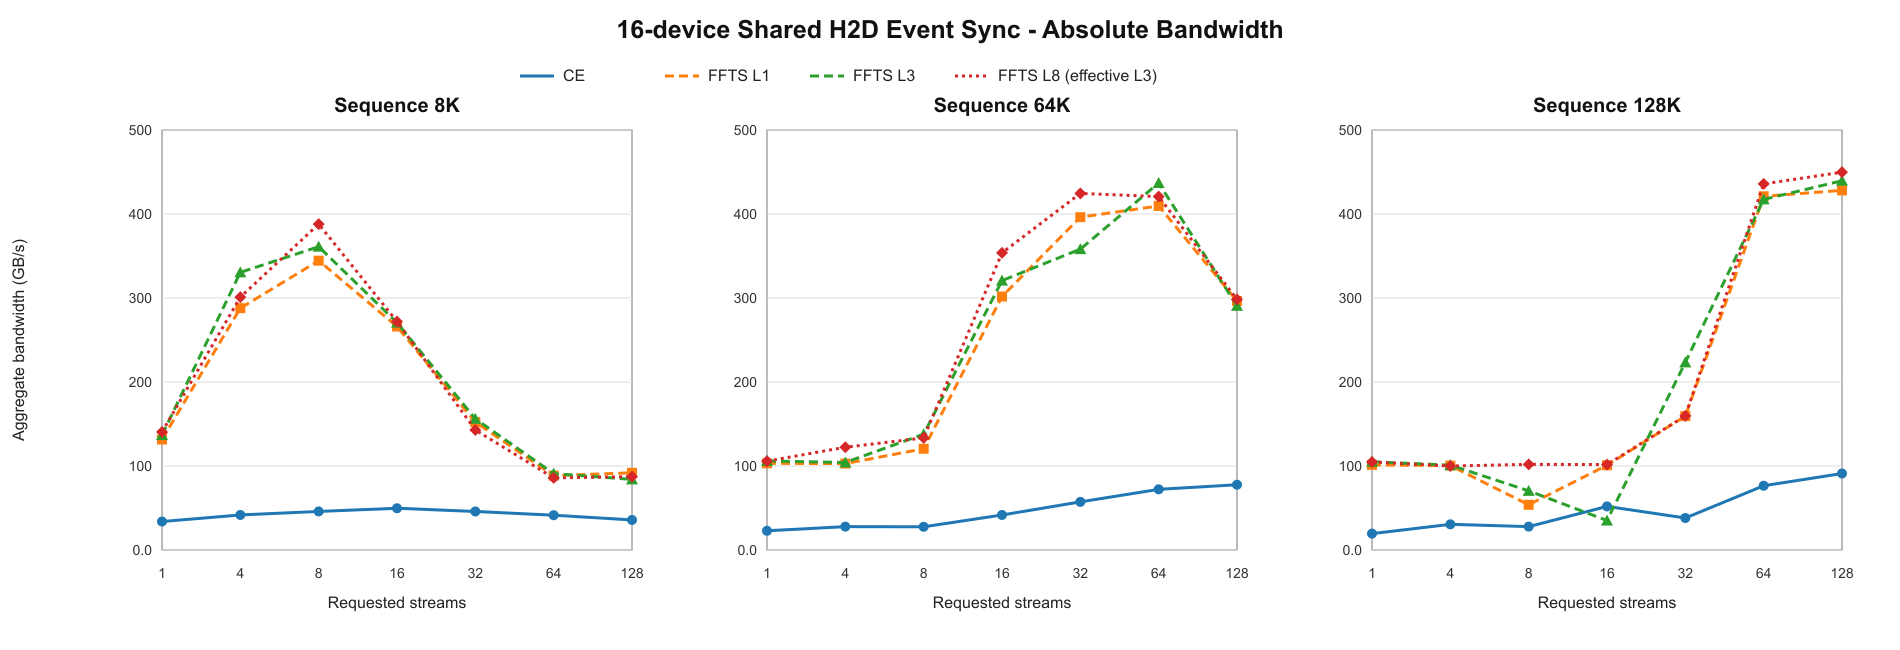
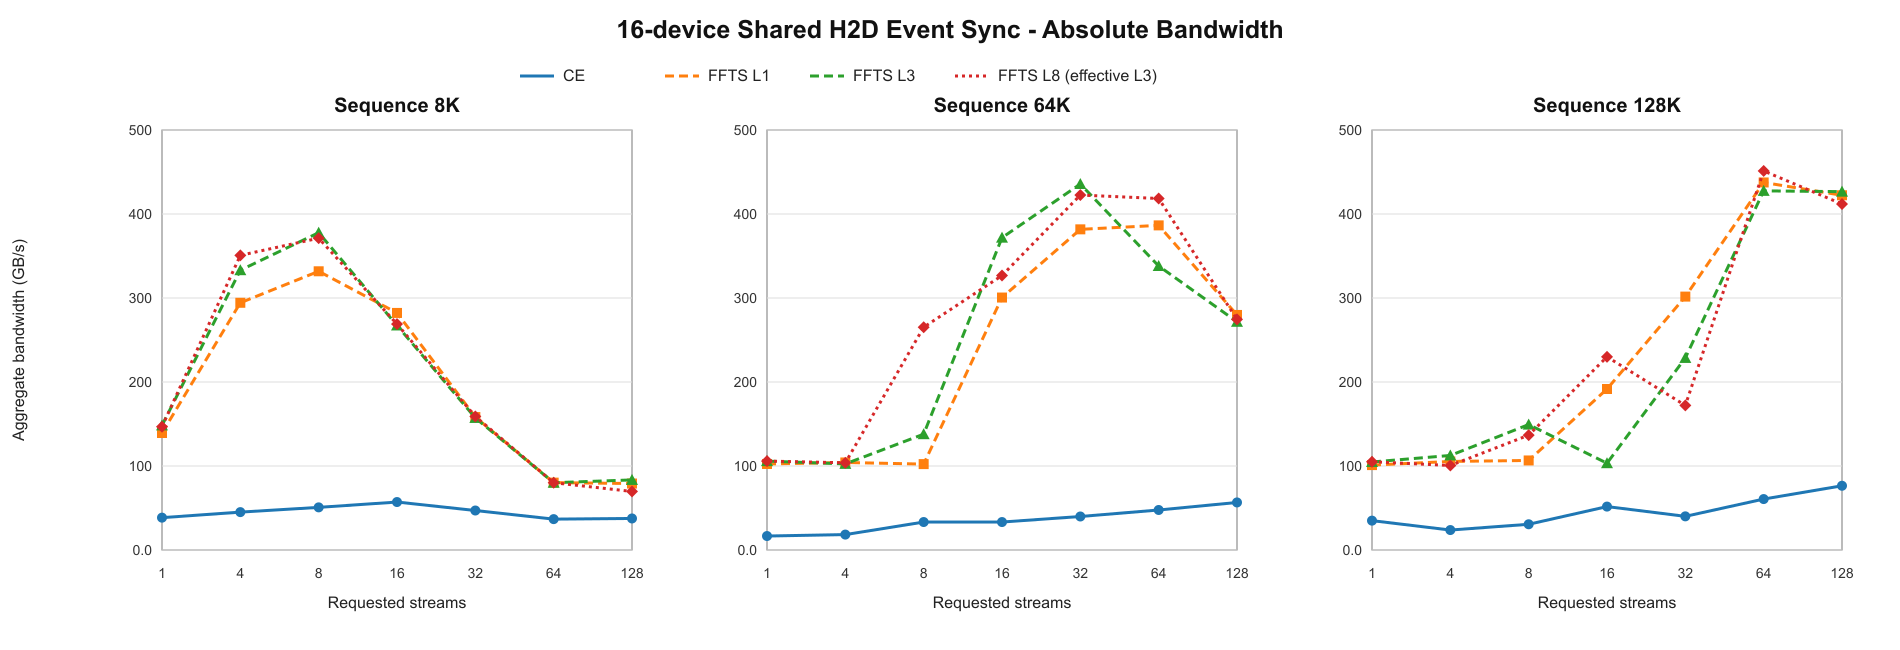
Refresh GLM shared H2D benchmark results

diff --git a/docs/source/developer-guide/ascend_h2d_glm_shared_stream_lane_sweep_report.md b/docs/source/developer-guide/ascend_h2d_glm_shared_stream_lane_sweep_report.md
@@ -2,41 +2,45 @@
 
 ## 1. 测试说明
 
-本报告整理 16 卡 Shared H2D、Event 同步下的 GLM 简化 IO 实测结果，重点展示绝对带宽、Copy 完成时间和 Submit 下发时间，不展开根因分析。
+本报告整理16卡Shared H2D、Event同步下的GLM简化IO实测结果，重点展示绝对带宽、Copy完成时间和Submit下发时间，不展开根因分析。
 
-- Run ID：`20260827_103327`
+- 主 Run ID：`20260827_121029`
+- 补充 Run ID：`20260827_103327`，仅补充主测试失败的 `64K / FFTS / S8 / L3`
 - 代码提交：`62b162099fd356b7928e07f16893b2922cdfb3b2`
-- Host 形态：单块 POSIX Shared Memory fan-out 到 16 张卡，对应 MLA 共享内存形态
-- IO 模式：`glm`；每个 task 固定包含 128K、16K、32K 三个 IO，合计 176 KiB
-- 数据映射：一个 dev-sandbox task 代表一个 UCM shard 的数据粒度，不等于一个 UCM API task
-- FFTS：一个 task 对应一次 FFTS launch，launch 内包含三个 SDMA context
-- CE：一个 task 对应三次 `aclrtMemcpyAsync`，三个 IO 放在同一个 stream
+- Host形态：单块POSIX Shared Memory fan-out到16张卡，对应MLA共享内存形态
+- IO模式：`glm`；每个task固定包含128K、16K、32K三个IO，合计176 KiB
+- 数据映射：一个dev-sandbox task代表一个UCM shard的数据粒度，不等于一个UCM API task
+- FFTS：一个task对应一次FFTS launch，launch内包含三个SDMA context
+- CE：一个task对应三次`aclrtMemcpyAsync`，三个IO放在同一个stream
 - Requested stream：1、4、8、16、32、64、128
-- FFTS requested lane：1、3、8；由于每个 launch 只有三个 context，lane 8 的 effective lane 为 3
+- FFTS requested lane：1、3、8；由于每个launch只有三个context，lane 8的effective lane为3
 - 同步方式：`event`
-- Warmup：12 轮；正式测试：128 轮
-- 完整组合：84；失败数：0
+- Warmup：12轮；正式测试：128轮
+- 最终数据：84组有效结果，其中主Run 83组、补充Run 1组
 
-| 序列长度 | 每卡 task 数 | 每卡 IO 数 | 每卡传输量 | 16 卡聚合传输量 |
+| 序列长度 | 每卡task数 | 每卡IO数 | 每卡传输量 | 16卡聚合传输量 |
 |---:|---:|---:|---:|---:|
 | 8K | 64 | 192 | 11 MiB | 176 MiB |
 | 64K | 512 | 1536 | 88 MiB | 1.375 GiB |
 | 128K | 1024 | 3072 | 176 MiB | 2.75 GiB |
 
-表格中的 Submit 和 Copy 单位均为微秒，顺序为 `Min/Max/Avg/P50/P90`。多卡时间按每轮最慢设备合并；日志中的 `BW(GB/s)` 使用 16 卡总数据量除以 Copy Avg，并按 1024³ 换算，数值更接近 GiB/s。
+主Run的`64K / FFTS / S8 / L3`因设备0、1的TSD/HDC响应失败而没有有效性能结果；本报告使用补充Run中同配置的成功结果：Submit `1908/185290/4304/2633/4565 us`，Copy `5901/186006/9972/8881/9684 us`，BW `137.886 GB/s`。
+
+表格中的Submit和Copy单位均为微秒，顺序为`Min/Max/Avg/P50/P90`。多卡时间按每轮最慢设备合并；日志中的`BW(GB/s)`使用16卡总数据量除以Copy Avg，并按1024³换算，数值更接近GiB/s。
+
 ## 2. 性能趋势图
 
-本节直接绘制日志中的绝对值。蓝色实线表示 CE；其余虚线分别表示 FFTS lane 1、3、8。每个序列长度子图都在纵轴上标明自己的绝对数值范围。
+本节直接绘制合并后84组数据的绝对值。蓝色实线表示CE；其余虚线分别表示FFTS lane 1、3、8。每个序列长度子图都在纵轴上标明自己的绝对数值范围。
 
 ### 2.1 聚合带宽
 
 ![16-device Shared H2D absolute bandwidth](../_static/images/ascend_h2d_glm_shared_event_bandwidth_absolute.png)
 
-### 2.2 Copy 完成时间
+### 2.2 Copy完成时间
 
 ![16-device Shared H2D absolute copy time](../_static/images/ascend_h2d_glm_shared_event_copy_time_absolute.png)
 
-### 2.3 Submit 下发时间
+### 2.3 Submit下发时间
 
 ![16-device Shared H2D absolute submit time](../_static/images/ascend_h2d_glm_shared_event_submit_time_absolute.png)
 
@@ -46,116 +50,118 @@
 
 | 序列 | Req Stream | Eff Stream | IO/卡 | Total IO | Submit us Min/Max/Avg/P50/P90 | Copy us Min/Max/Avg/P50/P90 | BW |
 |---:|---:|---:|---:|---:|---:|---:|---:|
-| 8K | 1 | 1 | 192 | 3072 | 243/4875/431/420/462 | 3947/27861/5072/4664/4927 | 33.887 |
-| 8K | 4 | 4 | 192 | 3072 | 238/3754/319/294/326 | 3016/10071/4120/3313/6034 | 41.717 |
-| 8K | 8 | 8 | 192 | 3072 | 292/808/375/359/423 | 2981/11278/3744/3259/5750 | 45.907 |
-| 8K | 16 | 16 | 192 | 3072 | 293/1528/342/314/371 | 2843/5128/3459/3341/4041 | 49.689 |
-| 8K | 32 | 32 | 192 | 3072 | 331/3155/723/405/2090 | 3195/5685/3747/3614/4384 | 45.870 |
-| 8K | 64 | 64 | 192 | 3072 | 439/1079/491/468/566 | 3726/5045/4150/4133/4440 | 41.416 |
-| 8K | 128 | 64 | 192 | 3072 | 940/3247/1696/1441/2751 | 3498/5486/4803/4868/5177 | 35.785 |
-| 64K | 1 | 1 | 1536 | 24576 | 2448/13317/2860/2712/3074 | 37067/394361/60021/40607/45611 | 22.909 |
-| 64K | 4 | 4 | 1536 | 24576 | 2202/29788/3266/2644/3289 | 18934/206780/49451/22317/115520 | 27.805 |
-| 64K | 8 | 8 | 1536 | 24576 | 2104/24711/3717/2391/7618 | 18643/589322/49766/20581/106760 | 27.629 |
-| 64K | 16 | 16 | 1536 | 24576 | 2351/59913/8945/2829/28895 | 17652/109986/32977/20252/104093 | 41.696 |
-| 64K | 32 | 32 | 1536 | 24576 | 2029/3073/2493/2564/2772 | 16329/45264/23995/23639/30401 | 57.304 |
-| 64K | 64 | 64 | 1536 | 24576 | 2043/5220/2288/2205/2612 | 14472/32061/19038/16746/27189 | 72.224 |
-| 64K | 128 | 128 | 1536 | 24576 | 2508/3762/2884/2899/3189 | 14978/25335/17699/17105/20580 | 77.688 |
-| 128K | 1 | 1 | 3072 | 49152 | 27905/298515/43091/30947/34494 | 82763/1117177/140891/87360/95026 | 19.519 |
-| 128K | 4 | 4 | 3072 | 49152 | 4399/63660/16341/6924/42801 | 40774/202785/89979/87139/136657 | 30.563 |
-| 128K | 8 | 8 | 3072 | 49152 | 4696/99899/7173/5857/6484 | 36558/310319/98838/110184/150531 | 27.823 |
-| 128K | 16 | 16 | 3072 | 49152 | 4894/25259/5571/5374/5681 | 37737/76575/52987/52535/66939 | 51.900 |
-| 128K | 32 | 32 | 3072 | 49152 | 4201/529799/19488/5442/37084 | 38095/553877/72207/48569/107384 | 38.085 |
-| 128K | 64 | 64 | 3072 | 49152 | 4715/29295/5664/5249/6016 | 28030/53751/35941/34515/44830 | 76.514 |
-| 128K | 128 | 128 | 3072 | 49152 | 4481/24331/5451/5264/5859 | 25878/47683/30194/28552/37394 | 91.078 |
+| 8K | 1 | 1 | 192 | 3072 | 289/770/352/356/377 | 3853/17305/4463/4273/4613 | 38.511 |
+| 8K | 4 | 4 | 192 | 3072 | 286/396/318/311/354 | 3126/9016/3811/3400/5593 | 45.100 |
+| 8K | 8 | 8 | 192 | 3072 | 295/607/327/315/350 | 2878/6041/3386/3202/3723 | 50.760 |
+| 8K | 16 | 16 | 192 | 3072 | 310/485/349/339/392 | 2575/6421/3010/2954/3154 | 57.101 |
+| 8K | 32 | 32 | 192 | 3072 | 396/576/473/476/526 | 3241/6785/3656/3540/3844 | 47.012 |
+| 8K | 64 | 64 | 192 | 3072 | 468/947/595/590/707 | 3925/7073/4676/4670/4878 | 36.757 |
+| 8K | 128 | 64 | 192 | 3072 | 483/858/589/546/722 | 3937/7832/4578/4504/4864 | 37.544 |
+| 64K | 1 | 1 | 1536 | 24576 | 1960/11511/2658/2453/3198 | 40759/1112787/82686/45044/135493 | 16.629 |
+| 64K | 4 | 4 | 1536 | 24576 | 2195/25209/3603/2614/5415 | 19125/122168/74929/108248/116586 | 18.351 |
+| 64K | 8 | 8 | 1536 | 24576 | 2140/35918/3862/2529/3398 | 17339/132716/41290/22624/102904 | 33.301 |
+| 64K | 16 | 16 | 1536 | 24576 | 1968/38822/3604/2399/2787 | 16038/226753/41314/21521/105153 | 33.282 |
+| 64K | 32 | 32 | 1536 | 24576 | 2268/3472/2746/2736/2979 | 16029/210191/34464/31681/55026 | 39.897 |
+| 64K | 64 | 64 | 1536 | 24576 | 2088/4211/2449/2387/2874 | 16381/76975/28863/27699/42209 | 47.639 |
+| 64K | 128 | 128 | 1536 | 24576 | 2472/5601/3013/2931/3346 | 16994/46084/24287/19390/36937 | 56.615 |
+| 128K | 1 | 1 | 3072 | 49152 | 21522/662172/29093/23708/25049 | 60924/1578274/78691/66410/70738 | 34.947 |
+| 128K | 4 | 4 | 3072 | 49152 | 4623/54039/24062/22592/42541 | 32801/222551/115745/124647/130966 | 23.759 |
+| 128K | 8 | 8 | 3072 | 49152 | 4666/41146/9236/5421/25534 | 30370/220755/89780/108307/128925 | 30.630 |
+| 128K | 16 | 16 | 3072 | 49152 | 5101/52827/6509/5477/6451 | 28611/138708/53209/36392/108591 | 51.683 |
+| 128K | 32 | 32 | 3072 | 49152 | 3964/11921/5252/5149/5723 | 24538/567204/68643/34613/143285 | 40.062 |
+| 128K | 64 | 64 | 3072 | 49152 | 4064/29672/5280/4822/5917 | 25034/152071/45347/44465/60367 | 60.643 |
+| 128K | 128 | 128 | 3072 | 49152 | 5110/24135/5807/5533/6479 | 23742/87924/35961/32589/49318 | 76.472 |
 
 ### 3.2 Shared FFTS · 8K
 
 | Lane | Effective Lane | Req Stream | Eff Stream | IO/卡 | Total IO | Submit us Min/Max/Avg/P50/P90 | Copy us Min/Max/Avg/P50/P90 | BW |
 |---:|---:|---:|---:|---:|---:|---:|---:|---:|
-| 1 | 1 | 1 | 1 | 192 | 3072 | 180/340/211/209/230 | 1199/1429/1307/1311/1356 | 131.503 |
-| 3 | 3 | 1 | 1 | 192 | 3072 | 176/338/221/218/246 | 1186/1372/1256/1254/1296 | 136.843 |
-| 8 | 3 | 1 | 1 | 192 | 3072 | 199/331/244/244/291 | 1049/1364/1223/1216/1311 | 140.536 |
-| 1 | 1 | 4 | 4 | 192 | 3072 | 203/449/247/237/290 | 498/816/597/590/692 | 287.898 |
-| 3 | 3 | 4 | 4 | 192 | 3072 | 196/282/235/235/259 | 380/796/520/509/639 | 330.529 |
-| 8 | 3 | 4 | 4 | 192 | 3072 | 198/592/237/227/279 | 407/784/571/556/700 | 301.007 |
-| 1 | 1 | 8 | 8 | 192 | 3072 | 270/627/308/300/331 | 443/822/499/488/539 | 344.439 |
-| 3 | 3 | 8 | 8 | 192 | 3072 | 280/418/323/323/352 | 400/759/476/454/582 | 361.082 |
-| 8 | 3 | 8 | 8 | 192 | 3072 | 270/427/302/299/326 | 388/568/443/430/515 | 387.980 |
-| 1 | 1 | 16 | 16 | 192 | 3072 | 385/1028/453/435/509 | 536/1202/646/618/737 | 266.060 |
-| 3 | 3 | 16 | 16 | 192 | 3072 | 396/571/447/438/505 | 579/872/635/624/687 | 270.669 |
-| 8 | 3 | 16 | 16 | 192 | 3072 | 389/619/441/431/509 | 564/915/632/618/701 | 271.954 |
-| 1 | 1 | 32 | 32 | 192 | 3072 | 644/1073/772/772/837 | 991/1493/1129/1125/1198 | 152.236 |
-| 3 | 3 | 32 | 32 | 192 | 3072 | 649/1399/749/734/828 | 976/2046/1101/1070/1180 | 156.108 |
-| 8 | 3 | 32 | 32 | 192 | 3072 | 680/2147/831/820/905 | 1027/3149/1203/1188/1286 | 142.872 |
-| 1 | 1 | 64 | 64 | 192 | 3072 | 1128/1982/1291/1276/1403 | 1744/2610/1941/1922/2066 | 88.550 |
-| 3 | 3 | 64 | 64 | 192 | 3072 | 1095/1798/1246/1231/1354 | 1704/3495/1890/1858/2084 | 90.939 |
-| 8 | 3 | 64 | 64 | 192 | 3072 | 1170/2521/1354/1330/1474 | 1779/3313/2002/1967/2153 | 85.852 |
-| 1 | 1 | 128 | 64 | 192 | 3072 | 1069/2286/1228/1207/1322 | 1721/2734/1870/1845/1985 | 91.912 |
-| 3 | 3 | 128 | 64 | 192 | 3072 | 1164/3255/1392/1363/1563 | 1772/4361/2045/1994/2219 | 84.046 |
-| 8 | 3 | 128 | 64 | 192 | 3072 | 1127/2374/1301/1279/1442 | 1706/4164/1969/1928/2125 | 87.291 |
+| 1 | 1 | 1 | 1 | 192 | 3072 | 173/392/247/242/295 | 1142/1321/1234/1235/1294 | 139.283 |
+| 3 | 3 | 1 | 1 | 192 | 3072 | 222/626/348/333/468 | 996/1315/1159/1175/1239 | 148.296 |
+| 8 | 3 | 1 | 1 | 192 | 3072 | 206/570/331/314/427 | 1038/1330/1171/1177/1247 | 146.776 |
+| 1 | 1 | 4 | 4 | 192 | 3072 | 206/501/270/255/326 | 509/735/584/575/651 | 294.307 |
+| 3 | 3 | 4 | 4 | 192 | 3072 | 228/648/329/313/444 | 406/778/516/510/603 | 333.091 |
+| 8 | 3 | 4 | 4 | 192 | 3072 | 201/595/304/288/416 | 387/734/490/477/583 | 350.765 |
+| 1 | 1 | 8 | 8 | 192 | 3072 | 269/635/338/324/406 | 448/771/518/508/580 | 331.805 |
+| 3 | 3 | 8 | 8 | 192 | 3072 | 278/538/347/344/408 | 384/655/455/450/522 | 377.747 |
+| 8 | 3 | 8 | 8 | 192 | 3072 | 288/547/352/345/403 | 393/650/463/452/522 | 371.220 |
+| 1 | 1 | 16 | 16 | 192 | 3072 | 383/626/431/422/482 | 553/849/609/601/650 | 282.225 |
+| 3 | 3 | 16 | 16 | 192 | 3072 | 405/565/454/448/498 | 582/775/643/638/690 | 267.302 |
+| 8 | 3 | 16 | 16 | 192 | 3072 | 401/597/458/453/508 | 564/773/639/632/702 | 268.975 |
+| 1 | 1 | 32 | 32 | 192 | 3072 | 666/1021/739/734/798 | 974/1311/1086/1077/1168 | 158.264 |
+| 3 | 3 | 32 | 32 | 192 | 3072 | 634/1144/742/736/810 | 957/1730/1093/1079/1168 | 157.251 |
+| 8 | 3 | 32 | 32 | 192 | 3072 | 620/902/729/722/816 | 936/1367/1081/1070/1187 | 158.996 |
+| 1 | 1 | 64 | 64 | 192 | 3072 | 1181/2271/1412/1403/1527 | 1816/3094/2143/2128/2322 | 80.203 |
+| 3 | 3 | 64 | 64 | 192 | 3072 | 1222/2326/1431/1414/1580 | 1888/3159/2146/2129/2306 | 80.091 |
+| 8 | 3 | 64 | 64 | 192 | 3072 | 1216/2141/1425/1395/1535 | 1881/3190/2146/2091/2346 | 80.091 |
+| 1 | 1 | 128 | 64 | 192 | 3072 | 1239/1693/1439/1428/1555 | 1971/2712/2172/2157/2314 | 79.132 |
+| 3 | 3 | 128 | 64 | 192 | 3072 | 1140/2036/1353/1344/1458 | 1756/3133/2060/2017/2246 | 83.434 |
+| 8 | 3 | 128 | 64 | 192 | 3072 | 1225/4222/1819/1445/3490 | 1842/5032/2466/2055/4177 | 69.698 |
 
 ### 3.3 Shared FFTS · 64K
 
+其中S8/L3来自补充Run，其余数据来自主Run。
+
 | Lane | Effective Lane | Req Stream | Eff Stream | IO/卡 | Total IO | Submit us Min/Max/Avg/P50/P90 | Copy us Min/Max/Avg/P50/P90 | BW |
 |---:|---:|---:|---:|---:|---:|---:|---:|---:|
-| 1 | 1 | 1 | 1 | 1536 | 24576 | 1358/2311/1565/1522/1635 | 13139/13782/13330/13331/13398 | 103.151 |
-| 3 | 3 | 1 | 1 | 1536 | 24576 | 1563/7343/5336/5525/6425 | 12808/13125/12965/12958/13058 | 106.055 |
-| 8 | 3 | 1 | 1 | 1536 | 24576 | 1410/2412/1614/1555/1908 | 12758/13170/12999/13005/13069 | 105.777 |
-| 1 | 1 | 4 | 4 | 1536 | 24576 | 1673/11748/4057/4367/5108 | 9739/15865/13363/13184/15122 | 102.896 |
-| 3 | 3 | 4 | 4 | 1536 | 24576 | 1432/2405/1918/1931/2119 | 11266/14079/13198/13246/13743 | 104.182 |
-| 8 | 3 | 4 | 4 | 1536 | 24576 | 1740/4045/2053/2028/2175 | 8521/12822/11242/11391/12096 | 122.309 |
-| 1 | 1 | 8 | 8 | 1536 | 24576 | 1486/2144/1774/1765/2001 | 8495/13284/11410/11515/12761 | 120.508 |
+| 1 | 1 | 1 | 1 | 1536 | 24576 | 1450/2275/1795/1806/2035 | 13237/13614/13428/13429/13480 | 102.398 |
+| 3 | 3 | 1 | 1 | 1536 | 24576 | 1658/2100/1843/1860/1935 | 12830/13905/12993/12992/13029 | 105.826 |
+| 8 | 3 | 1 | 1 | 1536 | 24576 | 1456/2267/1646/1578/2061 | 12713/13229/12989/12987/13031 | 105.859 |
+| 1 | 1 | 4 | 4 | 1536 | 24576 | 1653/3763/1893/1857/2119 | 12097/15008/13196/13249/13594 | 104.198 |
+| 3 | 3 | 4 | 4 | 1536 | 24576 | 1497/4014/1889/1829/2203 | 12389/14195/13414/13434/13624 | 102.505 |
+| 8 | 3 | 4 | 4 | 1536 | 24576 | 1398/2501/1573/1534/1720 | 11954/13856/13247/13361/13633 | 103.797 |
+| 1 | 1 | 8 | 8 | 1536 | 24576 | 1677/2329/1946/1928/2124 | 12432/14192/13447/13436/13757 | 102.253 |
 | 3 | 3 | 8 | 8 | 1536 | 24576 | 1908/185290/4304/2633/4565 | 5901/186006/9972/8881/9684 | 137.886 |
-| 8 | 3 | 8 | 8 | 1536 | 24576 | 1697/21069/2305/2004/2706 | 7591/21121/10306/10193/11628 | 133.417 |
-| 1 | 1 | 16 | 16 | 1536 | 24576 | 1689/7233/2079/2066/2201 | 2809/7721/4556/4531/5463 | 301.800 |
-| 3 | 3 | 16 | 16 | 1536 | 24576 | 1504/4718/2632/2456/3869 | 2285/6515/4287/4293/5312 | 320.737 |
-| 8 | 3 | 16 | 16 | 1536 | 24576 | 1608/5273/2854/2791/3703 | 2500/6018/3887/3891/4660 | 353.743 |
-| 1 | 1 | 32 | 32 | 1536 | 24576 | 1643/2592/2004/1969/2232 | 2391/4859/3470/3514/4163 | 396.254 |
-| 3 | 3 | 32 | 32 | 1536 | 24576 | 1766/2901/2096/2077/2316 | 2411/7325/3839/3647/5042 | 358.166 |
-| 8 | 3 | 32 | 32 | 1536 | 24576 | 1857/2768/2230/2216/2544 | 2339/5053/3239/3110/4039 | 424.514 |
-| 1 | 1 | 64 | 64 | 1536 | 24576 | 2140/3561/2620/2573/2947 | 2757/4311/3357/3293/3780 | 409.592 |
-| 3 | 3 | 64 | 64 | 1536 | 24576 | 2034/3018/2375/2315/2683 | 2670/4357/3147/3066/3585 | 436.924 |
-| 8 | 3 | 64 | 64 | 1536 | 24576 | 2163/3255/2572/2529/2897 | 2847/5675/3268/3207/3603 | 420.747 |
-| 1 | 1 | 128 | 128 | 1536 | 24576 | 3009/5738/3382/3322/3643 | 4203/6980/4638/4576/4975 | 296.464 |
-| 3 | 3 | 128 | 128 | 1536 | 24576 | 2934/4617/3476/3428/3906 | 4160/5958/4730/4700/5148 | 290.698 |
-| 8 | 3 | 128 | 128 | 1536 | 24576 | 3014/4510/3385/3337/3711 | 4176/5930/4609/4539/4991 | 298.329 |
+| 8 | 3 | 8 | 8 | 1536 | 24576 | 1831/5934/3572/3547/5283 | 3486/7754/5185/5099/6442 | 265.188 |
+| 1 | 1 | 16 | 16 | 1536 | 24576 | 1606/5480/2973/2633/4554 | 2987/6825/4575/4355/6068 | 300.546 |
+| 3 | 3 | 16 | 16 | 1536 | 24576 | 1603/5484/2627/2427/3670 | 2602/6579/3698/3555/4751 | 371.823 |
+| 8 | 3 | 16 | 16 | 1536 | 24576 | 1992/7263/3614/3308/4948 | 2741/7888/4208/4111/5429 | 326.759 |
+| 1 | 1 | 32 | 32 | 1536 | 24576 | 1877/6264/2865/2758/3631 | 2692/6890/3602/3482/4510 | 381.732 |
+| 3 | 3 | 32 | 32 | 1536 | 24576 | 1561/4802/2337/2148/3170 | 2171/6593/3156/3133/3819 | 435.678 |
+| 8 | 3 | 32 | 32 | 1536 | 24576 | 1956/4309/2676/2628/3231 | 2295/4727/3254/3236/3837 | 422.557 |
+| 1 | 1 | 64 | 64 | 1536 | 24576 | 2359/4878/2814/2652/3420 | 2949/5524/3558/3423/4162 | 386.453 |
+| 3 | 3 | 64 | 64 | 1536 | 24576 | 2197/54720/3315/2886/3443 | 2913/55280/4067/3597/4185 | 338.087 |
+| 8 | 3 | 64 | 64 | 1536 | 24576 | 2214/4774/2641/2511/3158 | 2933/5082/3286/3187/3733 | 418.442 |
+| 1 | 1 | 128 | 128 | 1536 | 24576 | 3198/5030/3544/3490/3829 | 4469/6919/4914/4880/5229 | 279.813 |
+| 3 | 3 | 128 | 128 | 1536 | 24576 | 3195/5008/3654/3623/3992 | 4455/6274/5061/5024/5523 | 271.685 |
+| 8 | 3 | 128 | 128 | 1536 | 24576 | 3165/5848/3607/3575/3918 | 4426/8880/5008/4959/5397 | 274.561 |
 
 ### 3.4 Shared FFTS · 128K
 
 | Lane | Effective Lane | Req Stream | Eff Stream | IO/卡 | Total IO | Submit us Min/Max/Avg/P50/P90 | Copy us Min/Max/Avg/P50/P90 | BW |
 |---:|---:|---:|---:|---:|---:|---:|---:|---:|
-| 1 | 1 | 1 | 1 | 3072 | 49152 | 5659/7811/6924/6923/7463 | 26545/31459/27142/26890/27014 | 101.319 |
-| 3 | 3 | 1 | 1 | 3072 | 49152 | 5639/12939/9475/9383/10726 | 25826/26433/26183/26183/26262 | 105.030 |
-| 8 | 3 | 1 | 1 | 3072 | 49152 | 3037/4344/3564/3456/4080 | 25869/26933/26248/26201/26330 | 104.770 |
-| 1 | 1 | 4 | 4 | 3072 | 49152 | 3172/4288/3808/3875/4109 | 25710/28346/27377/27469/27843 | 100.449 |
-| 3 | 3 | 4 | 4 | 3072 | 49152 | 3384/4437/3768/3647/4188 | 24833/28393/27222/27360/27734 | 101.021 |
-| 8 | 3 | 4 | 4 | 3072 | 49152 | 3115/3993/3511/3533/3785 | 26015/28223/27508/27562/27901 | 99.971 |
-| 1 | 1 | 8 | 8 | 3072 | 49152 | 3058/1162686/29486/3429/3902 | 18474/1163085/51090/26862/27390 | 53.827 |
-| 3 | 3 | 8 | 8 | 3072 | 49152 | 3074/1578736/15869/3618/3862 | 23198/1578851/39061/27153/27427 | 70.403 |
-| 8 | 3 | 8 | 8 | 3072 | 49152 | 3076/4275/3665/3735/3981 | 24686/27944/26980/27217/27639 | 101.927 |
-| 1 | 1 | 16 | 16 | 3072 | 49152 | 3659/4864/4271/4293/4509 | 26454/27761/27262/27294/27467 | 100.873 |
-| 3 | 3 | 16 | 16 | 3072 | 49152 | 3734/1414235/58973/4230/4772 | 16682/1415275/78324/26794/27100 | 35.111 |
-| 8 | 3 | 16 | 16 | 3072 | 49152 | 3445/4736/4104/4096/4468 | 26729/28017/27039/27020/27167 | 101.705 |
-| 1 | 1 | 32 | 32 | 3072 | 49152 | 3547/12908/4221/4141/4374 | 11984/21609/17255/17795/19950 | 159.374 |
-| 3 | 3 | 32 | 32 | 3072 | 49152 | 3465/6186/3979/3958/4228 | 4777/20655/12313/12451/18286 | 223.341 |
-| 8 | 3 | 32 | 32 | 3072 | 49152 | 3629/7182/4360/4251/4946 | 8058/24042/17230/17383/21086 | 159.605 |
-| 1 | 1 | 64 | 64 | 3072 | 49152 | 3555/5679/4538/4600/4976 | 4773/8634/6531/6412/8127 | 421.069 |
-| 3 | 3 | 64 | 64 | 3072 | 49152 | 3840/7229/4381/4289/4858 | 4715/11367/6589/6375/8151 | 417.362 |
-| 8 | 3 | 64 | 64 | 3072 | 49152 | 3296/5246/3945/3745/4693 | 4440/9783/6310/6118/8033 | 435.816 |
-| 1 | 1 | 128 | 128 | 3072 | 49152 | 4192/6263/4966/4874/5619 | 5471/9723/6423/6217/7367 | 428.149 |
-| 3 | 3 | 128 | 128 | 3072 | 49152 | 4284/6388/4964/4930/5432 | 5511/7445/6256/6232/6835 | 439.578 |
-| 8 | 3 | 128 | 128 | 3072 | 49152 | 4164/6353/4798/4613/5653 | 5453/7818/6114/5893/7071 | 449.787 |
+| 1 | 1 | 1 | 1 | 3072 | 49152 | 2934/4223/3434/3446/3629 | 26862/27355/27206/27215/27284 | 101.081 |
+| 3 | 3 | 1 | 1 | 3072 | 49152 | 2956/5827/3351/3233/3773 | 26100/26597/26248/26233/26341 | 104.770 |
+| 8 | 3 | 1 | 1 | 3072 | 49152 | 2921/7428/3313/3235/3606 | 25941/26351/26180/26186/26251 | 105.042 |
+| 1 | 1 | 4 | 4 | 3072 | 49152 | 2754/3946/3311/3252/3788 | 24099/27267/26085/26664/26912 | 105.425 |
+| 3 | 3 | 4 | 4 | 3072 | 49152 | 2849/4804/3455/3420/3821 | 21833/25928/24433/24516/25397 | 112.553 |
+| 8 | 3 | 4 | 4 | 3072 | 49152 | 3267/128722/5758/3876/4359 | 19845/130628/27336/26941/27249 | 100.600 |
+| 1 | 1 | 8 | 8 | 3072 | 49152 | 5914/83352/9982/8999/10502 | 19913/85016/25799/25371/28025 | 106.593 |
+| 3 | 3 | 8 | 8 | 3072 | 49152 | 8360/29425/10669/10180/12022 | 15094/31149/18417/18576/19976 | 149.319 |
+| 8 | 3 | 8 | 8 | 3072 | 49152 | 7015/155887/11465/9776/11215 | 13912/156695/20115/18482/21066 | 136.714 |
+| 1 | 1 | 16 | 16 | 3072 | 49152 | 4949/11559/8355/8586/10067 | 9562/22307/14348/14111/18536 | 191.664 |
+| 3 | 3 | 16 | 16 | 3072 | 49152 | 5680/57466/10105/9859/11378 | 18218/58612/26619/26849/28128 | 103.310 |
+| 8 | 3 | 16 | 16 | 3072 | 49152 | 4291/10166/6356/6124/8387 | 7407/16609/11958/11712/15277 | 229.972 |
+| 1 | 1 | 32 | 32 | 3072 | 49152 | 4351/11810/7421/7472/9233 | 6239/13181/9116/8936/10896 | 301.667 |
+| 3 | 3 | 32 | 32 | 3072 | 49152 | 3631/5803/4311/4216/4905 | 6999/21350/12027/11659/15948 | 228.652 |
+| 8 | 3 | 32 | 32 | 3072 | 49152 | 4373/13833/7469/6628/10266 | 8924/26469/15976/15616/22098 | 172.133 |
+| 1 | 1 | 64 | 64 | 3072 | 49152 | 3669/10179/5189/5084/6093 | 4884/11441/6285/6291/7293 | 437.550 |
+| 3 | 3 | 64 | 64 | 3072 | 49152 | 3697/5811/4040/3992/4263 | 4576/10646/6432/6181/8234 | 427.550 |
+| 8 | 3 | 64 | 64 | 3072 | 49152 | 3806/5614/4765/4782/5142 | 4760/8258/6094/5949/7230 | 451.264 |
+| 1 | 1 | 128 | 128 | 3072 | 49152 | 4134/6772/4921/4731/5802 | 5544/9705/6512/6240/7678 | 422.297 |
+| 3 | 3 | 128 | 128 | 3072 | 49152 | 4132/6753/4973/4857/5700 | 5516/8709/6446/6266/7441 | 426.621 |
+| 8 | 3 | 128 | 128 | 3072 | 49152 | 4367/6152/5068/5022/5739 | 5644/8931/6677/6576/7702 | 411.862 |
 
 ## 4. 性能结果
 
-| 序列 | CE 实测最高点 | CE BW | CE Copy Avg | CE Submit Avg | FFTS 实测最高点 | FFTS BW | FFTS Copy Avg | FFTS Submit Avg | FFTS/CE |
+| 序列 | CE实测最高点 | CE BW | CE Copy Avg | CE Submit Avg | FFTS实测最高点 | FFTS BW | FFTS Copy Avg | FFTS Submit Avg | FFTS/CE |
 |---:|---|---:|---:|---:|---|---:|---:|---:|---:|
-| 8K | S16 | 49.689 | 3459 us | 342 us | S8/L8 | 387.980 | 443 us | 302 us | 7.81x |
-| 64K | S128 | 77.688 | 17699 us | 2884 us | S64/L3 | 436.924 | 3147 us | 2375 us | 5.62x |
-| 128K | S128 | 91.078 | 30194 us | 5451 us | S128/L8 | 449.787 | 6114 us | 4798 us | 4.94x |
+| 8K | S16 | 57.101 | 3010 us | 349 us | S8/L3 | 377.747 | 455 us | 347 us | 6.62x |
+| 64K | S128 | 56.615 | 24287 us | 3013 us | S32/L3 | 435.678 | 3156 us | 2337 us | 7.70x |
+| 128K | S128 | 76.472 | 35961 us | 5807 us | S64/L8 | 451.264 | 6094 us | 4765 us | 5.90x |
 
-- CE 峰值分别出现在 8K 的 S16、64K 的 S128、128K 的 S128。
-- FFTS 峰值分别出现在 8K 的 S8/L8、64K 的 S64/L3、128K 的 S128/L8。
-- 三种输入规模的 FFTS 峰值带宽均高于 CE；具体倍率见上表。
-- L8 的 effective lane 与 L3 相同，二者差值只能视为相同三 lane 配置下的运行波动，不能解释为八 lane 并发收益。
-- 本结果只覆盖热 Shared Memory 到 HBM 的 H2D 微基准，不包含 CacheStore 排队、后端读取和端到端服务时间。
+- CE实测最高点分别出现在8K的S16、64K的S128、128K的S128。
+- FFTS实测最高点分别出现在8K的S8/L3、64K的S32/L3、128K的S64/L8。
+- 128K在S64和S128形成约412～451 GB/s的平台区；本轮最高点为S64/L8的451.264 GB/s。
+- L8的effective lane与L3相同，二者差值只能视为相同三lane配置下的运行波动，不能解释为八lane并发收益。
+- 本结果只覆盖热Shared Memory到HBM的H2D微基准，不包含CacheStore排队、后端读取和端到端服务时间。
